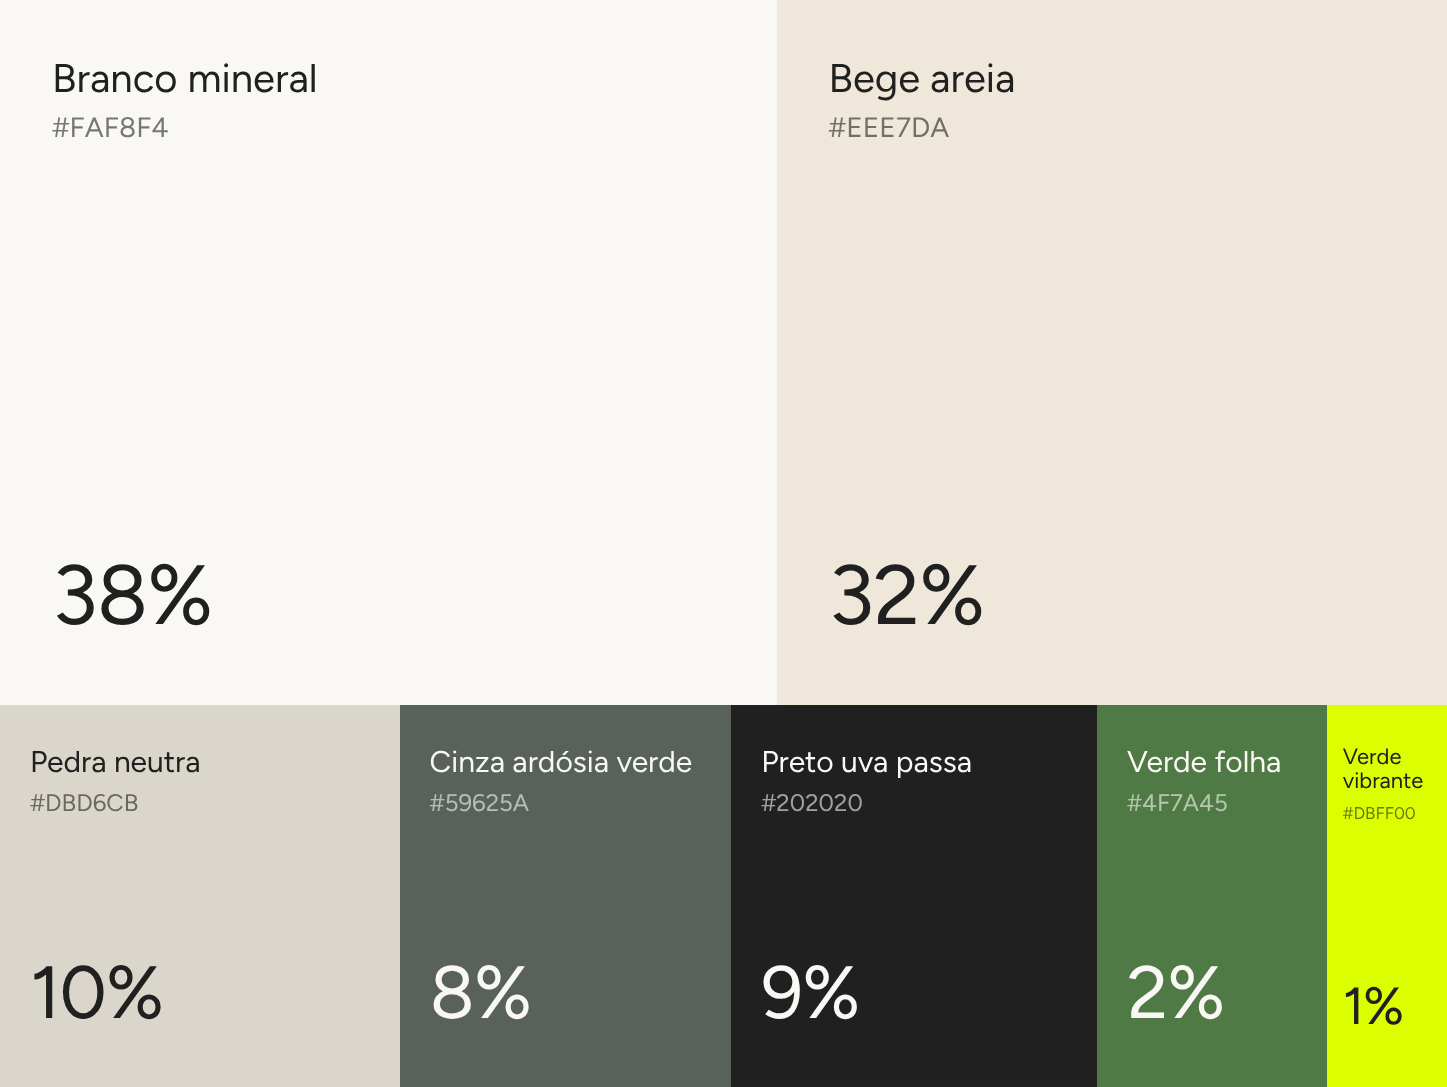
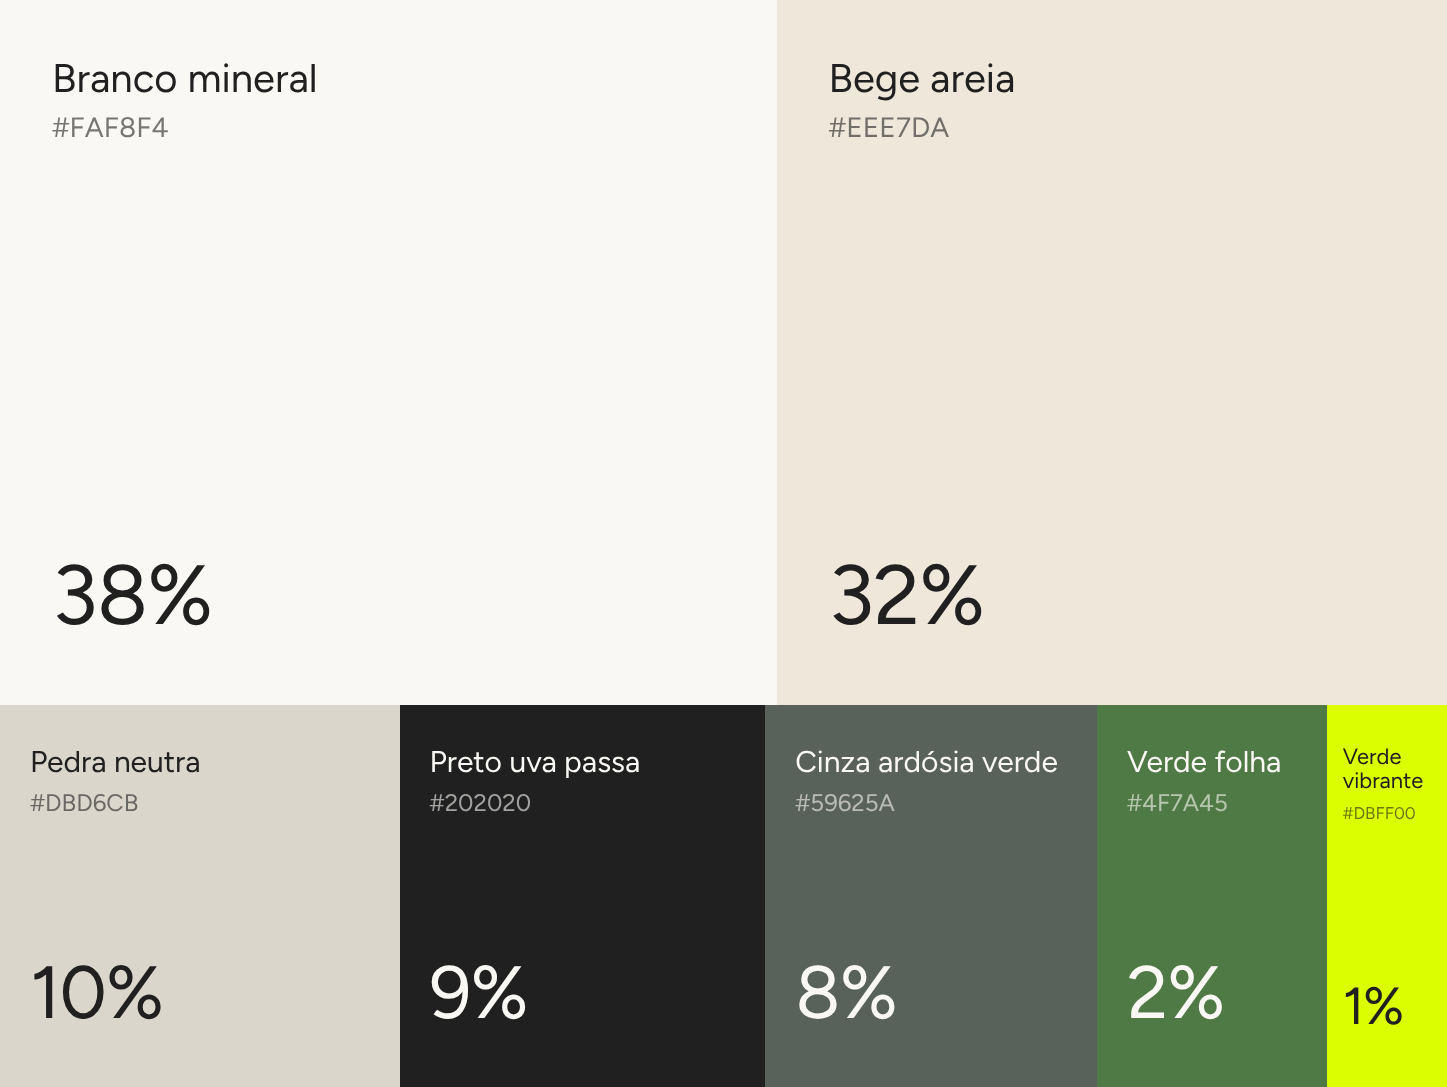
Paleta 2026: ordena cores por proporção (preto 9% antes da ardósia 8%)
Claude-Session: https://claude.ai/code/session_01RUSkk61kSD7dJD1wZKw9bn

Changed region(s): [[0.2488, 0.6375, 0.7775, 1.0]]

diff --git a/tokens/cores.css b/tokens/cores.css
@@ -4,8 +4,8 @@
   --aho-branco-mineral: #FAF8F4;
   --aho-bege-areia: #EEE7DA;
   --aho-pedra-neutra: #DBD6CB;
-  --aho-cinza-ardosia: #59625A;
   --aho-preto-uva-passa: #202020;
+  --aho-cinza-ardosia: #59625A;
 
   /* Marca */
   --aho-verde-folha: #4F7A45;

diff --git a/REVISAO.md b/REVISAO.md
@@ -4,7 +4,7 @@ Registro das decisões em aberto. Marque `[x]` quando decidido e anote a decisã
 
 ## 1. Paleta
 
-- [ ] **Aprovar a paleta 2026** e as proporções revisadas (38 / 32 / 10 / 8 / 9 / 2 / 1).
+- [ ] **Aprovar a paleta 2026** e as proporções revisadas (38 / 32 / 10 / 9 / 8 / 2 / 1).
 - [ ] **Confirmar que o turquesa e o roxo saem totalmente.** Peças antigas (Instagram, papelaria, camisetas) vão precisar ser refeitas.
 - [ ] **Cor principal do logo:** Preto uva passa (sóbrio) ou Verde folha (mais marcante)? Recomendação: Preto como padrão e Verde folha como versão de destaque.
 - [x] **Cinza para texto secundário.** Decidido: **Cinza ardósia verde `#59625A`** (8%). ~~Os três neutros são próximos demais entre si (contraste de 1,2 a 1,4) e nenhum serve para texto de apoio, como legendas, datas ou metragem. Sugestão: `#5E5A52` ("Cinza terra"), que tem contraste ≥ 4,5 sobre Branco, Bege e Pedra.~~

diff --git a/docs/02-cores.md b/docs/02-cores.md
@@ -11,8 +11,8 @@
 | Branco mineral | `#FAF8F4` | 250 248 244 | **38%** | Fundo principal |
 | Bege areia | `#EEE7DA` | 238 231 218 | **32%** | Fundo secundário, blocos, cards |
 | Pedra neutra | `#DBD6CB` | 219 214 203 | **10%** | Divisórias, bordas, áreas de apoio |
-| Cinza ardósia verde | `#59625A` | 89 98 90 | **8%** | Texto de apoio, fundos de seção, ponte entre neutros e verdes |
 | Preto uva passa | `#202020` | 32 32 32 | **9%** | Texto, logotipo, fundos escuros pontuais |
+| Cinza ardósia verde | `#59625A` | 89 98 90 | **8%** | Texto de apoio, fundos de seção, ponte entre neutros e verdes |
 | Verde folha | `#4F7A45` | 79 122 69 | **2%** | Cor de marca: botões, links, símbolo |
 | Verde vibrante | `#DBFF00` | 219 255 0 | **1%** | Destaque: selos, chamadas, detalhes sobre escuro |
 
